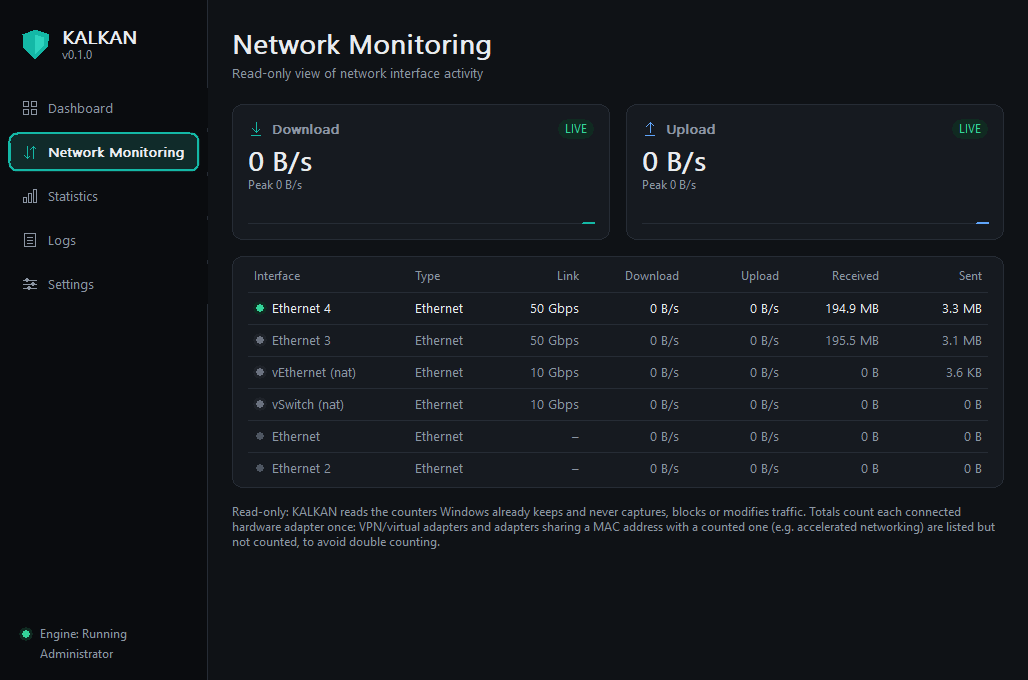
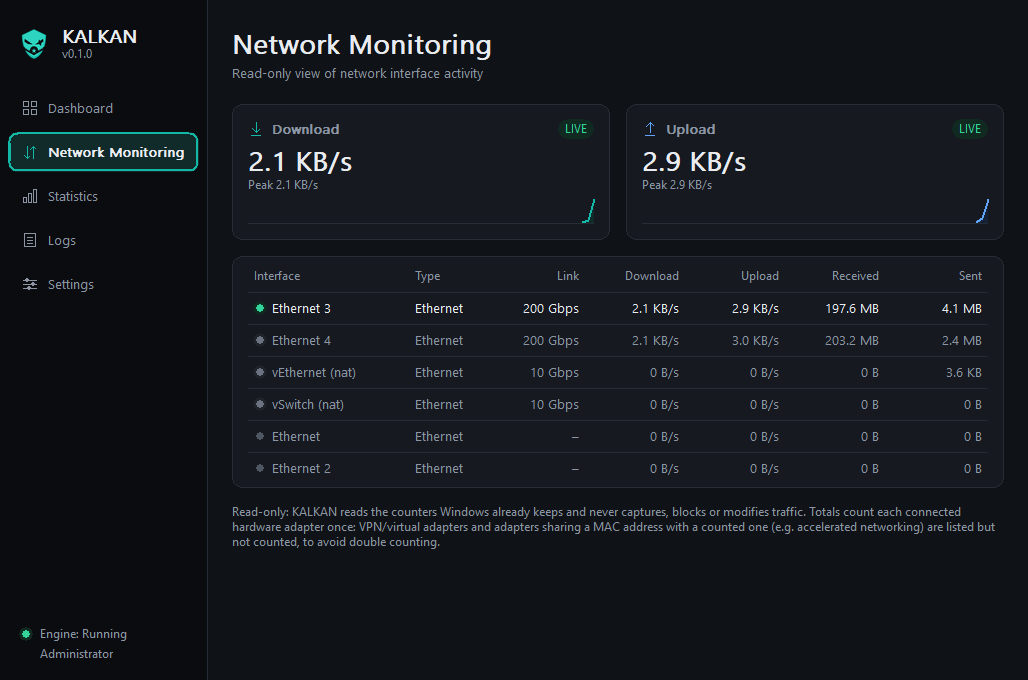
README/GUI.md: screenshots and check counts from CI run 20
Claude-Session: https://claude.ai/code/session_013rArqHUrzSJp7RaL7xFFoP

diff --git a/README.md b/README.md
@@ -42,7 +42,7 @@ KALKAN is built in phases. A feature is marked ✅ only after it has been compil
 
 ### Screenshots
 
-Captured automatically by `kalkan --self-test` on the Windows CI runner (CI run 15). The traffic is real and low, because the runner is idle:
+Captured automatically by `kalkan --self-test` on the Windows CI runner (CI run 20). The traffic is real and low, because the runner is idle:
 
 <p align="center">
   <img src="docs/screenshots/dashboard-running.png" width="720" alt="Dashboard: GoodBoyDPI running, live download/upload/CPU/memory cards, active interface strip" />
@@ -89,7 +89,7 @@ KALKAN reads the interface counters Windows already keeps, using IP Helper `GetI
 | GoodBoyDPI engine: controller and worker threads, lifecycle, Start/Stop/QueryStatus/Shutdown, errors, panics, bounded shutdown, no orphaned threads | ✅ | 36 engine tests, repeated 25× per CI build on Windows |
 | **Read-only network monitoring:** interfaces, rates, totals, peaks, adapter changes, resets, filter/virtual/same-MAC de-duplication | ✅ | 15 tracker tests with simulated adapters, 7 Windows-side classification tests, a real `GetIfTable2` test on Windows, and the CI end-to-end check: a 5,000,000-byte download made the counted bytes grow by 5,054,232 (1.01×; the rest is background traffic) |
 | Process metrics (KALKAN's own CPU and working set) | ✅ | Windows unit test and self-test |
-| **Refined native GUI:** teal design tokens, line icons, state pill, hover and hand cursor, runtime window icon, live Dashboard, Network page with graphs and interface table, Statistics, Logs, Settings | ✅ | 31 model/layout/theme tests (including WCAG AA contrast for every text/surface pair, and every page fitting at minimum size at 96 to 192 DPI), plus the **47-check** `--self-test`, run 3× per CI build |
+| **Refined native GUI:** teal design tokens, line icons, state pill, hover and hand cursor, logo window and taskbar icon, live Dashboard, Network page with graphs and interface table, Statistics, Logs, Settings | ✅ | 56 GUI unit tests: model, layout, theme, log view, settings form, logo (including WCAG AA contrast for every text/surface pair, and every page fitting at minimum size at 96 to 192 DPI), plus the **63-check** `--self-test`, run 3× per CI build |
 | Display scaling | ⚠ partial | Layout is unit-tested at 96, 120, 144, 168 and 192 DPI. On Windows, the real DPI-change code path was exercised by sending `WM_DPICHANGED` (150 %, screenshot above). The runner's display itself is 96 DPI, so a real high-DPI monitor has not been tested |
 | **Log rotation and retention:** size limit, numbered archives, retention, never deleting the active or unrelated files, restart, rename failure, concurrent writers, shutdown while logging | ✅ | 20 `kalkan-logging` tests (rotation, buffer, parsing, history, runtime reload), repeated 40× locally without a failure |
 | **Logs page:** real entries, level chips, search, pause/resume, copy, export, file status | ✅ | 8 `logview` tests and the self-test on Windows (clipboard and exported file compared byte-for-byte) |

diff --git a/docs/GUI.md b/docs/GUI.md
@@ -168,7 +168,7 @@ All colours and sizes come from `theme.rs`. There are no gradients, shadows or a
 
 ## Self-test (`kalkan --self-test --screenshots <dir>`)
 
-Phase 5 adds these checks (the run uses the real window, engine and logger):
+In Phase 5 the self-test has **63 checks** (CI run 20: 63 passed in each of the 3 runs). Phase 5 adds these checks, using the real window, engine and logger:
 
 * **Logs:** the page shows real engine entries ("engine started"); the list box row count equals the filtered entries; an upper-case search finds entries case-insensitively; turning INFO and DEBUG chips off hides them; a paused view does not change while a marker is logged, and Resume shows it; Copy puts exactly the selected entry on the clipboard; Export writes exactly the text that was visible when it ran, off the UI thread.
 * **Settings:** the configuration state is recorded; an out-of-range value ("0" MB) is rejected with an explanation and the file is byte-for-byte unchanged; a valid save (12 MB, debug level) is on disk and the log level changes live; Reset to defaults writes the defaults and re-applies the Info level. When the run starts from an invalid file, the `.bak` copy must exist (CI run 3 starts from `sample_interval_ms = 5`).
